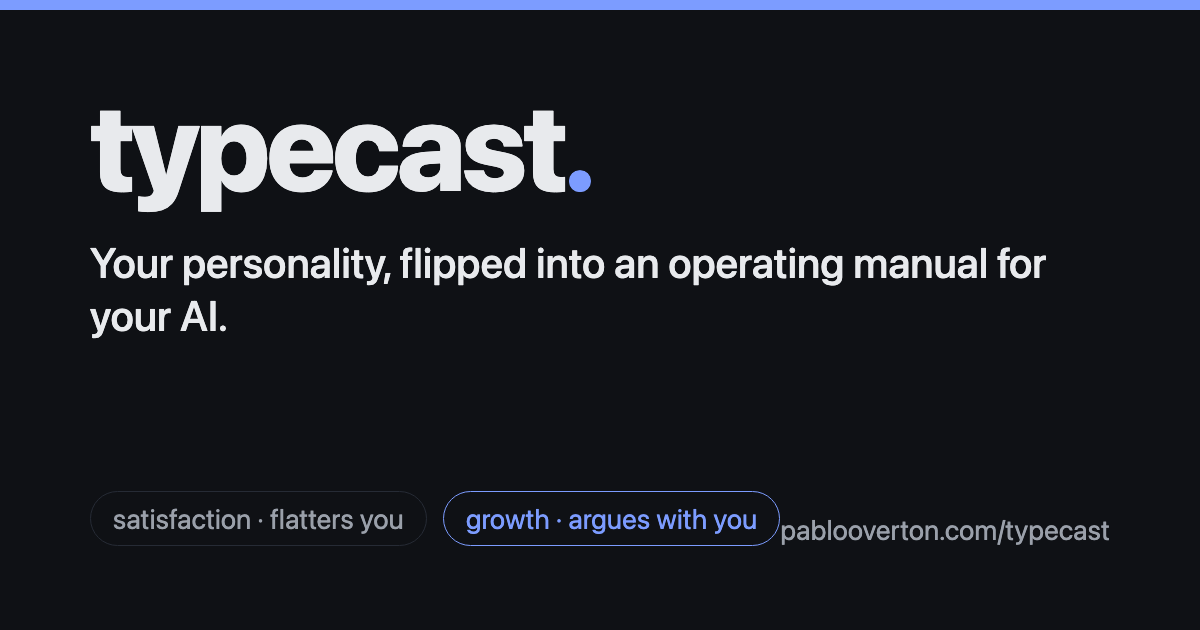
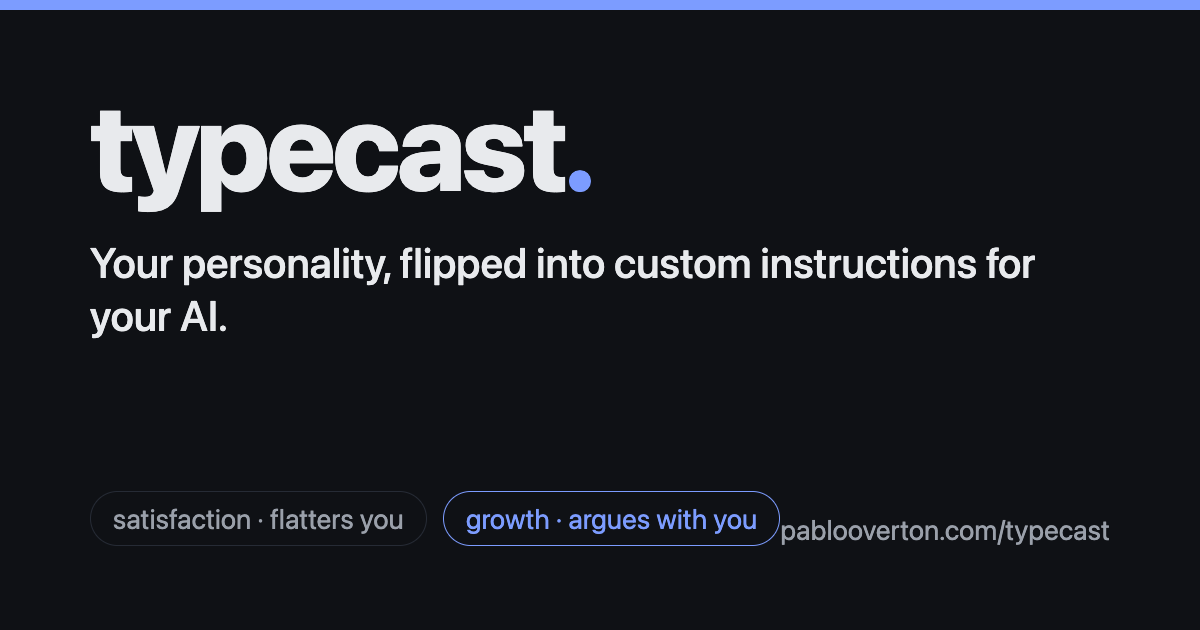
Polish: download saves CLAUDE.md; refresh OG card to 'custom instructions'
Download now saves CLAUDE.md, the correct user-global file for Claude Code (AGENTS.md was wrong for that path). Re-rendered og.png from the updated og.html so the social card matches the new wording.

Changed region(s): [[0.4933, 0.3921, 0.8942, 0.4524]]

diff --git a/index.html b/index.html
@@ -61,7 +61,7 @@
 
       <div class="actions">
         <button id="copy">Copy</button>
-        <button id="download">Download AGENTS.md</button>
+        <button id="download">Download CLAUDE.md</button>
         <span id="status" class="status" aria-live="polite"></span>
       </div>
 

diff --git a/og.html b/og.html
@@ -27,7 +27,7 @@
     <div class="accentbar"></div>
     <div>
       <p class="word">typecast<span class="dot">.</span></p>
-      <p class="tag">Your personality, flipped into an operating manual for your AI.</p>
+      <p class="tag">Your personality, flipped into custom instructions for your AI.</p>
     </div>
     <div class="foot">
       <div class="modes">